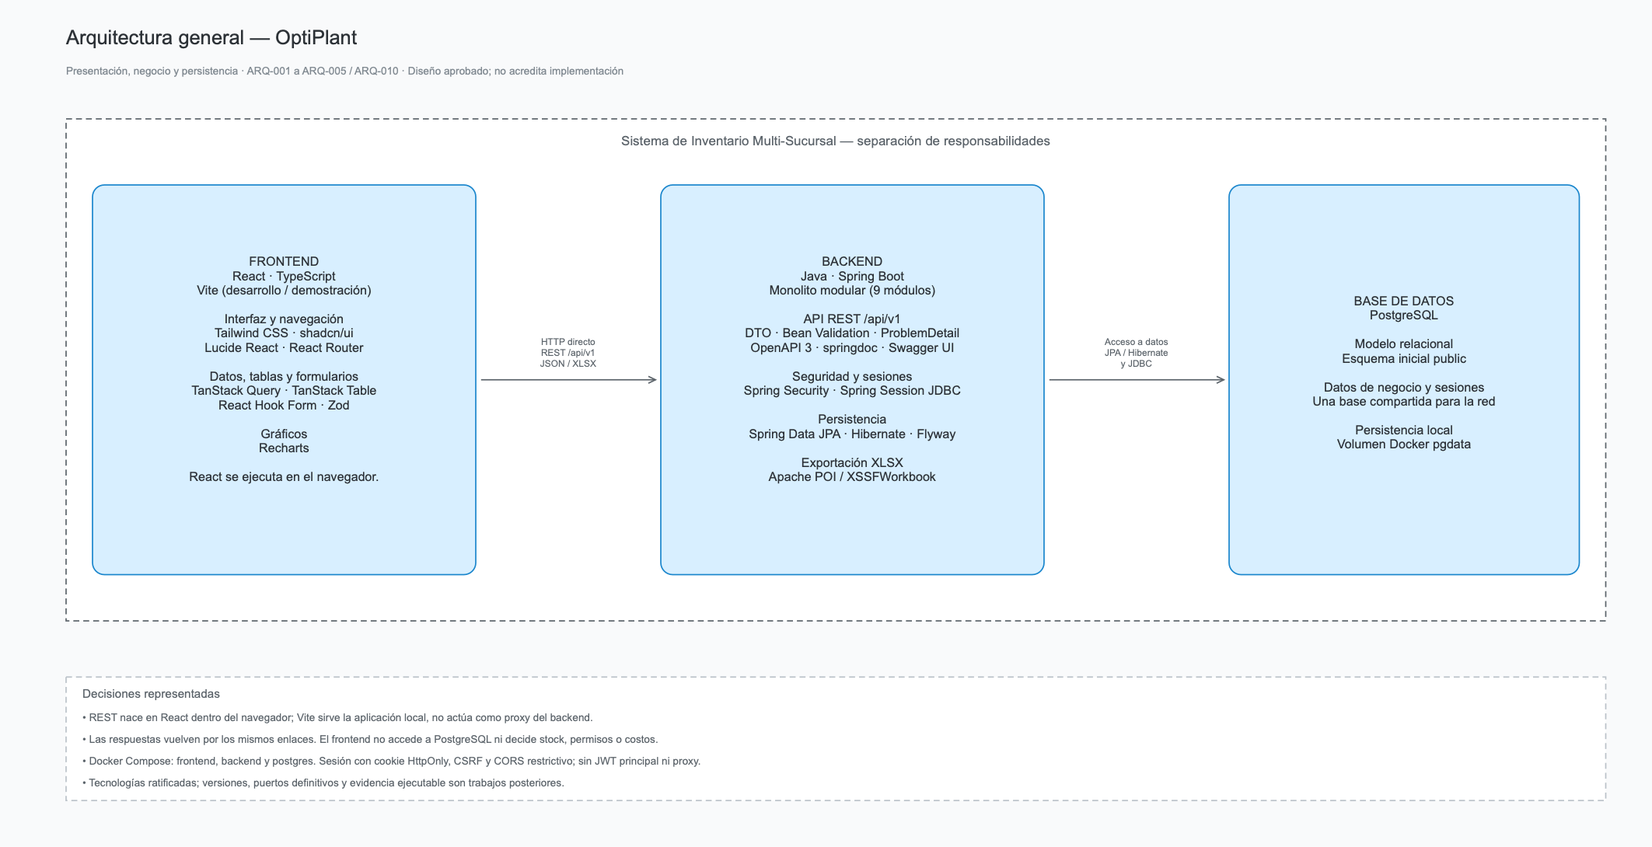
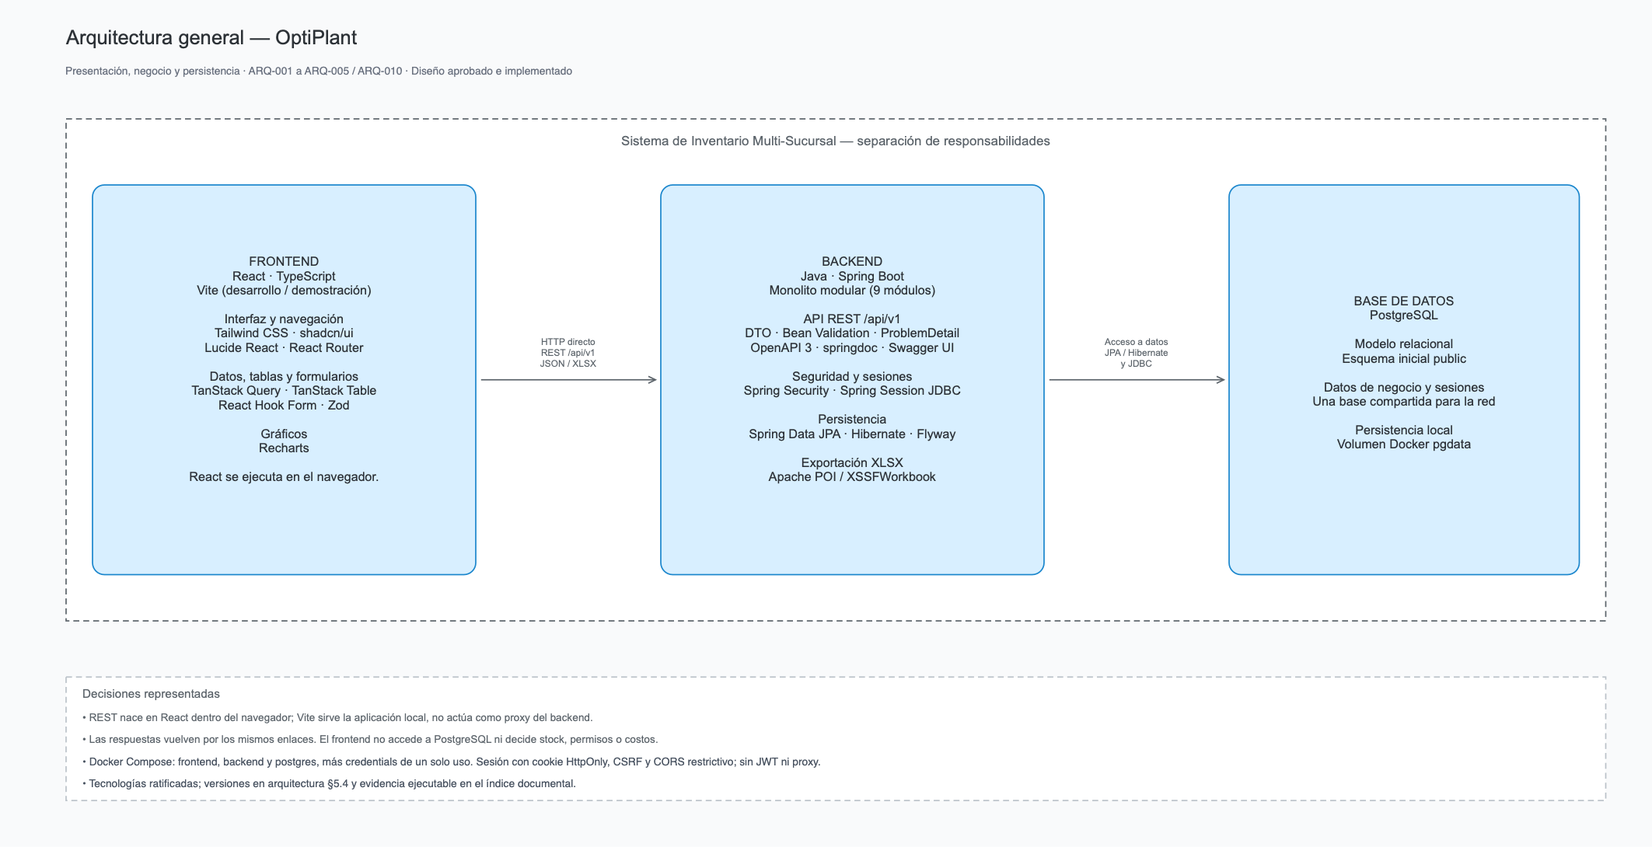
docs: reflect the completed implementation
Status notes still said the 55 requirements were pending. They now point to a single status section in the index, and notes about undelivered modules record what was delivered.

Changed region(s): [[0.0621, 0.8734, 0.4969, 0.9358], [0.0932, 0.0624, 0.3727, 0.0936]]

diff --git a/docs/04-arquitectura/arquitectura-y-diseno-tecnico.md b/docs/04-arquitectura/arquitectura-y-diseno-tecnico.md
@@ -1,6 +1,6 @@
 # Arquitectura y diseño técnico — OptiPlant
 
-**Estado:** decisiones arquitectónicas PEN-001–PEN-008 ratificadas por el responsable el 21 de octubre de 2026; definición y aprobación documental del punto 8 finalizadas. No acredita implementación, pruebas ni modelo E-R completo.  
+**Estado:** decisiones arquitectónicas PEN-001–PEN-008 ratificadas por el responsable el 21 de octubre de 2026; definición y aprobación documental del punto 8 finalizadas. Implementada; evidencia en el [estado de la implementación](../indice-documental.md#estado-de-la-implementación) y modelo E-R en el [modelo de datos](../06-modelo-base-datos/modelo-datos.md).  
 **Versión:** 1.1 — 22 de octubre de 2026; incorpora la evaluación de versiones y compatibilidad de §5.4 sin modificar las decisiones ratificadas.  
 **Ámbito:** documento único de decisiones arquitectónicas y diseño técnico de la sección 8; los detalles derivados del modelo/contratos, la implementación y los diagramas de la sección 7 corresponden a etapas posteriores.
 
@@ -45,17 +45,17 @@ A ratifica mecanismos arquitectónicos, no nuevas reglas funcionales. La intenci
 
 | Obligación | Fuente | Tratamiento en este documento | Situación |
 |---|---|---|---|
-| Separar frontend, backend y base de datos | M §5 | §3 y ARQ-001–ARQ-004 | Base seleccionada; cumplimiento ejecutable pendiente. |
-| API exclusiva, sin lógica de negocio en el cliente | M §§5 y 8.1 | §3, ARQ-001 y ARQ-002 | Responsabilidades delimitadas. |
-| Interfaz responsiva | M §8.1 | ARQ-001 | Stack y organización aprobados; comprobación visual posterior. |
+| Separar frontend, backend y base de datos | M §5 | §3 y ARQ-001–ARQ-004 | Implementado: `frontend`, `backend` y `postgres` en servicios separados. |
+| API exclusiva, sin lógica de negocio en el cliente | M §§5 y 8.1 | §3, ARQ-001 y ARQ-002 | Implementado: el cliente usa solo REST y previsualiza; el servidor decide. |
+| Interfaz responsiva | M §8.1 | ARQ-001 | Implementado; navegación móvil y tablas comprobadas en el [sistema visual](../08-implementacion/sistema-visual.md). |
 | Compose con servicios independientes y aislados; arranque con un comando | M §§5 y 8.1 | ARQ-004 | Implementado y comprobado desde cero, sin `.env`, por `scripts/smoke_stack.py`. |
 | Justificar lenguaje de backend | M §8.2 | ARQ-002 | Elección y justificación documental aprobadas. |
-| Justificar motor y modelo de datos | M §8.2 | ARQ-003 | Estrategia relacional y fundamento aprobados; modelo lógico/físico completo y E-R posteriores. |
-| Justificar autenticación y autorización | M §8.2 | ARQ-005 | Sesiones JDBC y seguridad aprobadas y justificadas; implementación y pruebas posteriores. |
-| Justificar sincronización entre sucursales | M §8.2 | ARQ-006 | Polling REST aprobado y justificado; latencia real pendiente de medición. |
-| Justificar patrones utilizados | M §8.2 | ARQ-008 | Patrones y capas tradicionales por módulo aprobados y fundamentados; inspección ejecutable posterior. |
+| Justificar motor y modelo de datos | M §8.2 | ARQ-003 | Aprobados e implementados; modelo y E-R en el [modelo de datos](../06-modelo-base-datos/modelo-datos.md). |
+| Justificar autenticación y autorización | M §8.2 | ARQ-005 | Aprobadas, justificadas, implementadas y probadas. |
+| Justificar sincronización entre sucursales | M §8.2 | ARQ-006 | Polling REST aprobado, justificado e implementado; latencia real sin medición formal. |
+| Justificar patrones utilizados | M §8.2 | ARQ-008 | Patrones y capas tradicionales por módulo aprobados, fundamentados e implementados. |
 
-M §7 exige diagramas de arquitectura y entidad-relación, entre otros. Este cierre documental no los sustituye ni declara completada esa sección. La conformidad ejecutable de §§5 y 8.1 permanece pendiente de implementación y pruebas.
+M §7 exige diagramas de arquitectura y entidad-relación, entre otros. Sus diagramas están en el [índice de arquitectura](diagramas/indice-diagramas-arquitectura.md) y en el [modelo de datos](../06-modelo-base-datos/modelo-datos.md). Las notas «Detalles y verificación posteriores» de cada decisión conservan lo previsto al diseñar; el estado vigente es el de esta tabla.
 
 ## 3. Separación de responsabilidades por capas — §8.1
 
@@ -138,11 +138,11 @@ El propietario definitivo de los datos maestros de sucursales **no está ratific
 
 ### ARQ-004 — Ejecución y aislamiento con Docker Compose
 
-**Estado:** ejecución local, servicios, volumen nombrado, migraciones, semillas y controles de arranque APROBADOS por A PEN-007; configuración operativa no implementada en esta actividad.  
+**Estado:** ejecución local, servicios, volumen nombrado, migraciones, semillas y controles de arranque APROBADOS por A PEN-007; implementados en `compose.yaml` y comprobados por `scripts/smoke_stack.py`.  
 **Clasificación:** justificación de una decisión significativa y cumplimiento obligatorio de M §§5 y 8.1; no categoría mínima independiente de §8.2.  
 **Trazabilidad:** A PEN-007, relacionada con PEN-001 y PEN-005; P §1; M §§5 y 8.1; RNF-SEG-02.
 
-**Decisión aprobada.** Ejecutar localmente tres servicios principales Compose: `frontend` (React servido por Vite), `backend` (Spring Boot) y `postgres` (PostgreSQL). Comando de referencia: `docker compose up --build`, sin instalar JDK, Node o PostgreSQL fuera de los contenedores. Es una decisión documentada, no una configuración creada ni un comando ejecutado en esta actividad.
+**Decisión aprobada.** Ejecutar localmente tres servicios principales Compose: `frontend` (React servido por Vite), `backend` (Spring Boot) y `postgres` (PostgreSQL). Comando de referencia: `docker compose up --build`, sin instalar JDK, Node o PostgreSQL fuera de los contenedores. El servicio auxiliar `credentials` se describe más abajo.
 
 **Persistencia.** Volumen nombrado Docker **`pgdata`**, administrado por Docker, no bind mount a una carpeta del proyecto. Montarlo en la ruta correcta según versión de imagen y `PGDATA`; no asumir idéntica ruta en todas las versiones. Conserva datos entre `up`, `down` y reconstrucciones; advertir que **`docker compose down -v` puede borrarlos**. Los archivos físicos del volumen no son un respaldo portable: cuando se necesite una copia exportable se utilizarán mecanismos PostgreSQL.
 

diff --git a/docs/indice-documental.md b/docs/indice-documental.md
@@ -8,7 +8,7 @@ Punto de entrada a la documentación del Sistema de Inventario Multi-Sucursal. E
 |---|---|
 | [Requisitos funcionales](01-requerimientos/requisitos-funcionales.md) | Comportamiento aprobado, RF-0001–RF-0055, permisos, reglas y criterios de aceptación. |
 | [Arquitectura y diseño técnico](04-arquitectura/arquitectura-y-diseno-tecnico.md) | Diseño por capas, organización modular, decisiones ARQ, fundamentos, alternativas y verificaciones pendientes. |
-| [Modelo relacional y especificación de datos](06-modelo-base-datos/modelo-datos.md) | Entidades, atributos, relaciones, restricciones, índices, diagramas E-R y trazabilidad. Es diseño técnico; no acredita implementación. |
+| [Modelo relacional y especificación de datos](06-modelo-base-datos/modelo-datos.md) | Entidades, atributos, relaciones, restricciones, índices, diagramas E-R y trazabilidad. Diseño técnico implementado mediante migraciones Flyway. |
 
 ## Fuentes y decisiones
 
@@ -21,6 +21,10 @@ Punto de entrada a la documentación del Sistema de Inventario Multi-Sucursal. E
 | [Instrucciones del proyecto](../AGENTS.md) | Convenciones de trabajo, fuentes protegidas, alcance y aprobaciones necesarias. |
 
 Las tecnologías elegidas y las reglas ratificadas por el responsable son decisiones del proyecto, no exigencias externas por defecto. Consultar el estado, las fuentes y la precedencia en cada documento; una aprobación documental no demuestra implementación ni pruebas. Ante una contradicción no resuelta, señalarla y solicitar decisión, sin corregir silenciosamente las fuentes.
+
+## Estado de la implementación
+
+RF-0001–RF-0055 están implementados en `main` (31 de octubre de 2026). La evidencia son las comprobaciones de `scripts/run_checks.py`, que incluyen un arranque desde cero de Compose, y los cuatro recorridos manuales realizados por el responsable: RF-0001–RF-0020 y RF-0026, RF-0021–RF-0031, RF-0032–RF-0043 y RF-0044–RF-0055. Quedan pendientes el `README.md` general y la sección de uso de IA. Los requisitos no funcionales no tienen una medición individual.
 
 ## Requisitos complementarios
 
@@ -65,6 +69,7 @@ Los diagramas E-R están incluidos en el [modelo de datos](06-modelo-base-datos/
 | [Recorrido manual de compras y ventas](08-implementacion/recorrido-manual-compras-ventas.md) | Continuación del recorrido integral que verifica desde la interfaz compras, valoración, listas de precios y ventas (RF-0021–RF-0031) partiendo de los datos que este deja. Generado con IA a partir de las guías de prueba manual; realizado por el responsable (25 de 25 pasos, confirmado el 29/10/2026), con el estado final contrastado en la base local. |
 | [Recorrido manual de transferencias](08-implementacion/recorrido-manual-transferencias.md) | Continuación del recorrido de compras y ventas que verifica desde la interfaz transferencias, rutas, faltantes, tiempos de entrega y cumplimiento logístico (RF-0032–RF-0043) partiendo de los datos que este deja. Generado con IA a partir de la guía de transferencias y de la base local; realizado por el responsable (26 de 26 pasos, confirmado el 29/10/2026), con el estado final contrastado en la base local. |
 | [Recorrido manual de dashboard y reportes](08-implementacion/recorrido-manual-dashboard-reportes.md) | Continuación del recorrido de transferencias que verifica desde la interfaz el dashboard y los reportes Excel (RF-0044–RF-0055) partiendo de los datos que este deja. Generado con IA y comprobado en una copia desechable del volumen local; realizado por el responsable (26 de 26 pasos, confirmado el 31/10/2026). |
+| [Ejecutar y verificar la base técnica](07-colaboracion/preparacion-tecnica.md) | Arranque con Docker Compose, primer acceso, persistencia y comprobaciones compartidas con CI. |
 | [Git, GitHub y pull requests](07-colaboracion/git-github-y-pull-requests.md) | Guía de colaboración y revisión del repositorio. |
 | [Guía temporal de incertidumbres](01-requerimientos/incertidumbres-pendientes-temporal.md) | Antecedente de análisis con alternativas no aprobadas por sí mismas. No sustituye las decisiones ratificadas ni demuestra que todas sus preguntas sigan abiertas. |
 | [Diagramas de casos de uso — respaldo anterior](02-casos-de-uso/diagramas/indice-diagramas-casos-de-uso.md) | Versión anterior conservada como respaldo; consultar primero la versión 2 y la especificación textual. |

diff --git a/docs/07-colaboracion/preparacion-tecnica.md b/docs/07-colaboracion/preparacion-tecnica.md
@@ -1,6 +1,6 @@
 # Ejecutar y verificar la base técnica
 
-Esta base conecta React con Spring Boot y PostgreSQL por REST. Es preparación técnica: no acredita la implementación de ventas, compras, transferencias, dashboards ni reportes completos. Las decisiones vigentes están en [arquitectura](../04-arquitectura/arquitectura-y-diseno-tecnico.md) y [modelo de datos](../06-modelo-base-datos/modelo-datos.md).
+Esta base conecta React con Spring Boot y PostgreSQL por REST. Las guías de cada módulo están en el [índice documental](../indice-documental.md). Las decisiones vigentes están en [arquitectura](../04-arquitectura/arquitectura-y-diseno-tecnico.md) y [modelo de datos](../06-modelo-base-datos/modelo-datos.md).
 
 ## Arranque local
 
@@ -61,6 +61,6 @@ El hook sigue validando los bytes de los commits enviados, no los cambios sin co
 
 La prueba de humo genera credenciales y un nombre Compose exclusivos, publica puertos locales libres y utiliza un volumen nuevo. Al terminar elimina **solo el volumen desechable y las imágenes construidas de esa prueba** (`down --volumes --rmi local`), nunca el `pgdata` del entorno personal ni las imágenes base compartidas. Cada nombre exclusivo genera imágenes `<proyecto>-backend` y `<proyecto>-frontend` que `down` conserva por defecto; todo script que levante un proyecto Compose propio debe retirarlas igual, y `odd/probes/test_compose_teardown.py` lo comprueba. El directorio temporal externo se informa para limpieza posterior; puede contener secretos efímeros y no debe publicarse.
 
-La demostración HTTP local no acredita HTTPS productivo. El navegador no guarda contraseñas ni identificadores de sesión en almacenamiento web. La API conserva CSRF, cookies `HttpOnly` y CORS explícito con credenciales. Las reglas de negocio pendientes no deben inferirse del endpoint técnico `/api/v1/bootstrap`.
+La demostración HTTP local no acredita HTTPS productivo. El navegador no guarda contraseñas ni identificadores de sesión en almacenamiento web. La API conserva CSRF, cookies `HttpOnly` y CORS explícito con credenciales. Las reglas de negocio no deben inferirse del endpoint técnico `/api/v1/bootstrap`.
 
 Los resultados observados y cualquier comprobación pendiente se registran en [las tareas de preparación](../../odd/tasks/preparacion-tecnica.md). Ejecutar localmente un grupo no demuestra que GitHub Actions haya corrido; no se publica ni dispara CI remoto como parte de esta preparación.

diff --git a/docs/08-implementacion/acceso-y-administracion.md b/docs/08-implementacion/acceso-y-administracion.md
@@ -40,7 +40,8 @@ Sesión (RNF-SEG-04): vence a los 30 minutos sin actividad interactiva o a las 8
 - RF-0002 y RF-0003: administración integrada con persistencia y seguridad; RF-0006: ciclo de autenticación existente conectado a gestión/revocación y cambio voluntario visible.
 - RF-0004: consultas de datos operativos persistidos en todas las sucursales. Esta vista no reemplaza los detalles, indicadores, dashboards ni reportes de los RF que los definen.
 - RF-0005 y RF-0007: separación de consultas locales/globales y mantenimiento administrativo protegidos; consultar existencias ajenas no concede acceso al historial ajeno. La sucursal inactiva conserva consultas autorizadas.
-- Los comandos de ingresos/retiros, compras, ventas, ajustes, etapas de transferencias y exportación todavía no existen. Por ello los criterios de RF-0005/RF-0007 que exigen ejecutar esos comandos y verificar sus efectos no pueden declararse cumplidos por esta entrega. Se aplicarán y probarán con sus módulos dependientes; aquí no se sustituyen por endpoints ficticios ni se amplía el alcance para implementarlos.
+- Los comandos de ingresos/retiros, compras, ventas, ajustes, etapas de transferencias y exportación se entregaron después, con sus permisos por rol y sucursal; los criterios de RF-0005/RF-0007 que dependen de ellos se comprueban en las guías de cada módulo.
+- Nota de esta entrega inicial: esos comandos no existían, por lo que no pudieron declararse cumplidos aquí. Se aplicarán y probarán con sus módulos dependientes; aquí no se sustituyen por endpoints ficticios ni se amplía el alcance para implementarlos.
 - Desde RF-0014/RF-0015 la tabla de existencias de **Consultas** se actualiza por polling cada dos segundos y advierte datos potencialmente desactualizados; el historial operativo sigue requiriendo consulta explícita. Ver [inventario entre sucursales](inventario-entre-sucursales.md).
 
 ## Códigos sin distinguir mayúsculas (V12)

diff --git a/docs/08-implementacion/movimientos-de-inventario.md b/docs/08-implementacion/movimientos-de-inventario.md
@@ -34,7 +34,7 @@ Errores principales: `400 VALIDATION_FAILED`, `UNIT_COST_REQUIRED`, `UNIT_COST_N
 
 ## Alcance y límites
 
-- Compras (RF-0024), ventas (RF-0027/RF-0028) y transferencias aún no existen: los motivos «compra» y «venta» de RF-0016-CA-01/RF-0017-CA-01 se ejercitan en las pruebas publicando operaciones directamente en `InventoryLedger`, como lo harán esos módulos. No hay ingreso manual por compra ni venta manual, porque esos documentos generan sus propios movimientos.
+- Compras (RF-0024), ventas (RF-0027/RF-0028) y transferencias se entregaron después y publican sus operaciones en `InventoryLedger`; ver [compras](compras.md), [ventas](ventas.md) y [transferencias](transferencias.md).
 - Solo se corrigen entradas identificadas y solo a la baja; un error en un retiro o unidades faltantes se regularizan con un nuevo ingreso o un ajuste por conteo. No hay correcciones exclusivas de precio (RF-0026, límites).
 - Cada operación de `InventoryLedger` reevalúa la alerta de stock mínimo de las combinaciones afectadas; ver [alertas de reabastecimiento](alertas-de-reabastecimiento.md).
 - El historial no tiene paginación ni filtros de fecha; muestra los 200 movimientos más recientes (hasta 500 con `limit`). La exportación pertenece a reportes (RF-0050–RF-0055).

diff --git a/docs/08-implementacion/compras.md b/docs/08-implementacion/compras.md
@@ -58,7 +58,7 @@ Los importes se devuelven a 2 decimales (`netAmount`, `totalNet`) y exactos (`ex
 
 - Una sucursal con borradores o pendientes no puede desactivarse hasta recibirlos o cancelarlos (INC-011/D05, RF-0003-CA-06).
 - No hay aprobación de compra, tesorería ni recepción parcial (RF-0022). La cancelación no se deshace: para retomar la compra se crea una orden de reemplazo.
-- RF-0026-CA-02 (costo congelado en tránsito) depende de las transferencias (RF-0032–RF-0036), aún no implementadas. La vista de valoración muestra el valor de las existencias físicas; el tránsito se incorporará con esas transferencias.
+- RF-0026-CA-02 (costo congelado en tránsito) se entregó con las transferencias: `InventoryLedger` conserva el valor del tránsito, cubierto por `RouteAndDispatchHttpTest` y `TransferReceptionHttpTest`. La vista de valoración sigue mostrando solo existencias físicas.
 - No se implementan pagos, saldos por pagar, impuestos, fletes ni otras monedas (INC-012/D05, INC-019/D01). Tampoco la desactivación de proveedores: la columna `active` existe y se respeta al crear órdenes, pero no tiene operación.
 - El código de orden `OC-` más el identificador interno con seis dígitos es una convención técnica de esta entrega.
 

diff --git a/docs/08-implementacion/catalogo-de-productos.md b/docs/08-implementacion/catalogo-de-productos.md
@@ -62,7 +62,7 @@ El catálogo local responde `branchExternalId`, `branchCode`, `branchName`, `bra
 
 - Precisiones derivadas, no requisitos nuevos: el mínimo de una unidad base indivisible debe ser entero (RF-0013, sin redondeo silencioso) y «uso» que protege SKU y unidad base comprende saldos, movimientos, líneas de documentos y precios.
 - RF-0001, RF-0012 y RF-0013 se incorporaron después sobre las mismas tablas, sin migraciones; ver la sección siguiente. La deshabilitación local (RF-0019) no forma parte de esta entrega.
-- RF-0011-CA-03 exige impedir nuevas operaciones de inventario, compra, venta o transferencia sobre productos inactivos. Esos comandos aún no existen; la entrega impide nuevas habilitaciones y deja cada producto inactivo sin sucursales habilitadas, pero la validación en cada comando se aplicará y probará con sus módulos.
+- RF-0011-CA-03 impide nuevas operaciones sobre productos inactivos: inventario, compras, ventas y transferencias resuelven el producto mediante `OperableUnits`, entregado con esos módulos.
 - El listado no tiene filtros ni paginación, porque ningún RF los prescribe.
 
 ## Mínimo, catálogo local y unidades (RF-0001, RF-0012, RF-0013)

diff --git a/docs/04-arquitectura/diagramas/indice-diagramas-arquitectura.md b/docs/04-arquitectura/diagramas/indice-diagramas-arquitectura.md
@@ -50,6 +50,7 @@ Se usa la decisión ratificada posterior cuando las instrucciones o referencias 
 - Tres escenas JSON válidas con elementos editables, una etiqueta vinculada por contenedor y vínculos recíprocos de conectores.
 - Dos conexiones en la vista general, ningún acceso frontend → base de datos, nueve módulos exactos y tres conexiones conceptuales en la vista interna.
 - Revisión geométrica de textos, componentes, etiquetas y notas; sin superposiciones ni conexiones que atraviesen componentes ajenos.
+- El 31 de octubre de 2026 se actualizaron tres textos de la vista general, en la fuente y en su PNG, para reflejar la implementación y el servicio `credentials`.
 - Vistas previas PNG generadas con un renderizador local de coordenadas y textos e inspeccionadas visualmente; medición tipográfica sin desbordamientos. No son exportaciones nativas de Excalidraw y no se probó su interfaz de edición.
 - Se preservaron los documentos previos y diagramas existentes, comprobados mediante SHA-256. No se generó código de aplicación ni se hicieron commits.
 

diff --git a/docs/08-implementacion/recorrido-manual-integral.md b/docs/08-implementacion/recorrido-manual-integral.md
@@ -347,4 +347,4 @@ Esta es la guía de recorrido manual en un solo flujo, basada en las cinco guía
 - **Caída del servidor:** con **Consultas** abierta, ejecuta `docker compose stop backend`. Debe aparecer la advertencia ámbar y la tabla conserva la última lectura. Después ejecuta `docker compose start backend`. No borra datos.
 - **Baja efectiva de una sucursal y consulta de una sucursal inactiva:** omitida para conservar las tres sucursales. Si la quieres probar, crea una sucursal vacía `PRU-BAJA` y desactívala.
 - **Cambio de factor e inactivación de una unidad:** omitido porque alteraría `estiba` y `saco`. Si quieres probarlo, usa una unidad extra, por ejemplo `display` ×6 en MAC-14.
-- **Devolución vinculada a una venta:** todavía no hay módulo de ventas, así que solo se puede probar sin referencia.
+- **Devolución vinculada a una venta:** en esta guía solo se prueba sin referencia; la vinculada se verifica en el [recorrido de compras y ventas](recorrido-manual-compras-ventas.md), paso 21.

diff --git a/docs/08-implementacion/recorrido-manual-compras-ventas.md b/docs/08-implementacion/recorrido-manual-compras-ventas.md
@@ -404,4 +404,4 @@ Esta es la guía de recorrido manual en un solo flujo para compras, valoración,
 - **Ventas simultáneas sobre el mismo saldo:** requiere dos sesiones del mismo operador confirmando a la vez; está cubierto por `SaleHttpTest` y por el informe E2E (escenario 25).
 - **Perfiles que intentan escribir por la API:** el gerente y el administrador reciben `403` (`PURCHASE_FORBIDDEN`, `SALE_FORBIDDEN`) aunque el cuerpo sea inválido; el operador recibe `403 VALUATION_FORBIDDEN` en la valoración.
 - **CAL-SUR:** queda fuera porque desde el recorrido anterior no tiene operador activo (`resp.cal` es gerente y `ope.temporal` está inactivo).
-- **Costo congelado en tránsito (RF-0026-CA-02):** depende de las transferencias, aún no implementadas.
+- **Costo congelado en tránsito (RF-0026-CA-02):** se verifica en el [recorrido de transferencias](recorrido-manual-transferencias.md).

diff --git a/docs/01-requerimientos/requisitos-funcionales.md b/docs/01-requerimientos/requisitos-funcionales.md
@@ -1,6 +1,6 @@
 # Requerimientos funcionales — OptiPlant
 
-**Estado:** catálogo funcional **aprobado** en su formulación v1.0; decisiones y cuatro precisiones PR-01–PR-04 integradas. No acredita implementación ni verificación del software.  
+**Estado:** catálogo funcional **aprobado** en su formulación v1.0; decisiones y cuatro precisiones PR-01–PR-04 integradas. RF-0001–RF-0055 implementados; evidencia en el [estado de la implementación](../indice-documental.md#estado-de-la-implementación).  
 **Versión:** 1.3 — 22 de octubre de 2026. Conserva H v1.1 y H v1.2/01; integra H v1.3/01–02: productos con baja exclusivamente lógica y captura/congelación del nombre histórico del proveedor.  
 **Ámbito:** sección 6.1 de la prueba técnica, exclusivamente requerimientos funcionales.
 

diff --git a/docs/03-historias de usuario/historias-de-usuario.md b/docs/03-historias de usuario/historias-de-usuario.md
@@ -1,6 +1,6 @@
 # Historias de usuario — OptiPlant
 
-**Estado:** elaborado a partir del catálogo funcional aprobado v1.0 y las decisiones ratificadas; no acredita implementación ni pruebas.  
+**Estado:** elaborado a partir del catálogo funcional aprobado v1.0 y las decisiones ratificadas; funcionalidad implementada, con evidencia en el [estado de la implementación](../indice-documental.md#estado-de-la-implementación).  
 **Alcance:** necesidades funcionales de los actores internos de OptiPlant. No define arquitectura, API, persistencia, pantallas ni mecanismos técnicos.  
 **Versión:** 1.3 — 22 de octubre de 2026. Conserva H v1.1 y H v1.2/01; integra H v1.3/01–02 en HU-005 y HU-009: baja lógica de productos y nombre histórico del proveedor.
 
